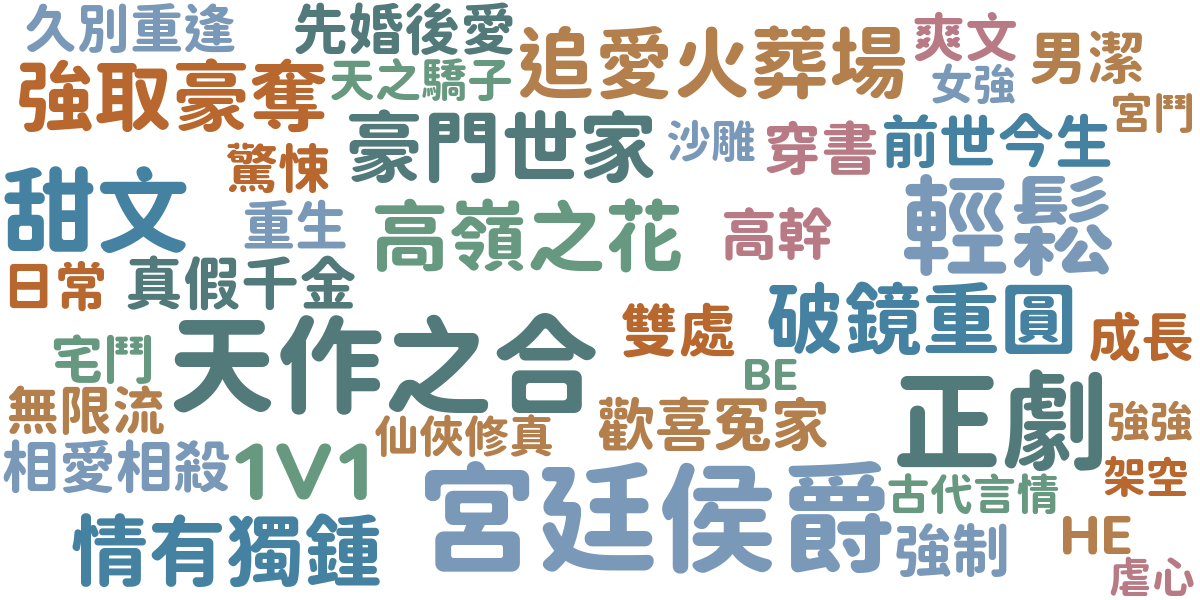
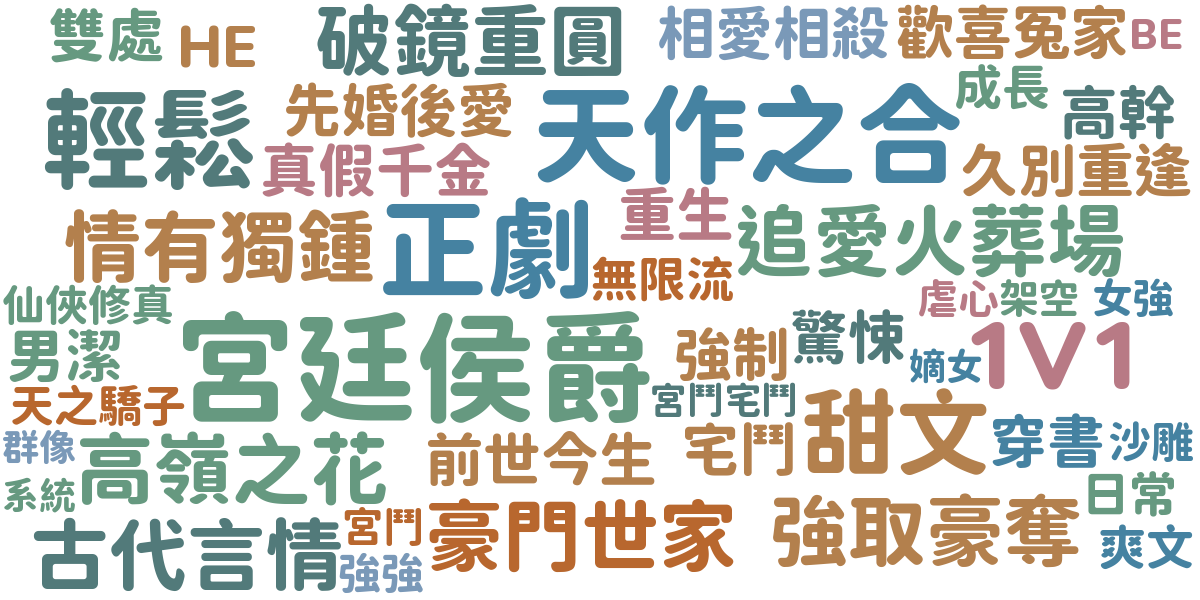
☁ Update reading word cloud via GitHub Actions

diff --git a/public/word_cloud.html b/public/word_cloud.html
@@ -23,6 +23,6 @@
     </style>
 </head>
 <body>
-    <img src="word_cloud.png?t=1770337895" alt="Word Cloud">
+    <img src="word_cloud.png?t=1770424326" alt="Word Cloud">
 </body>
 </html>
